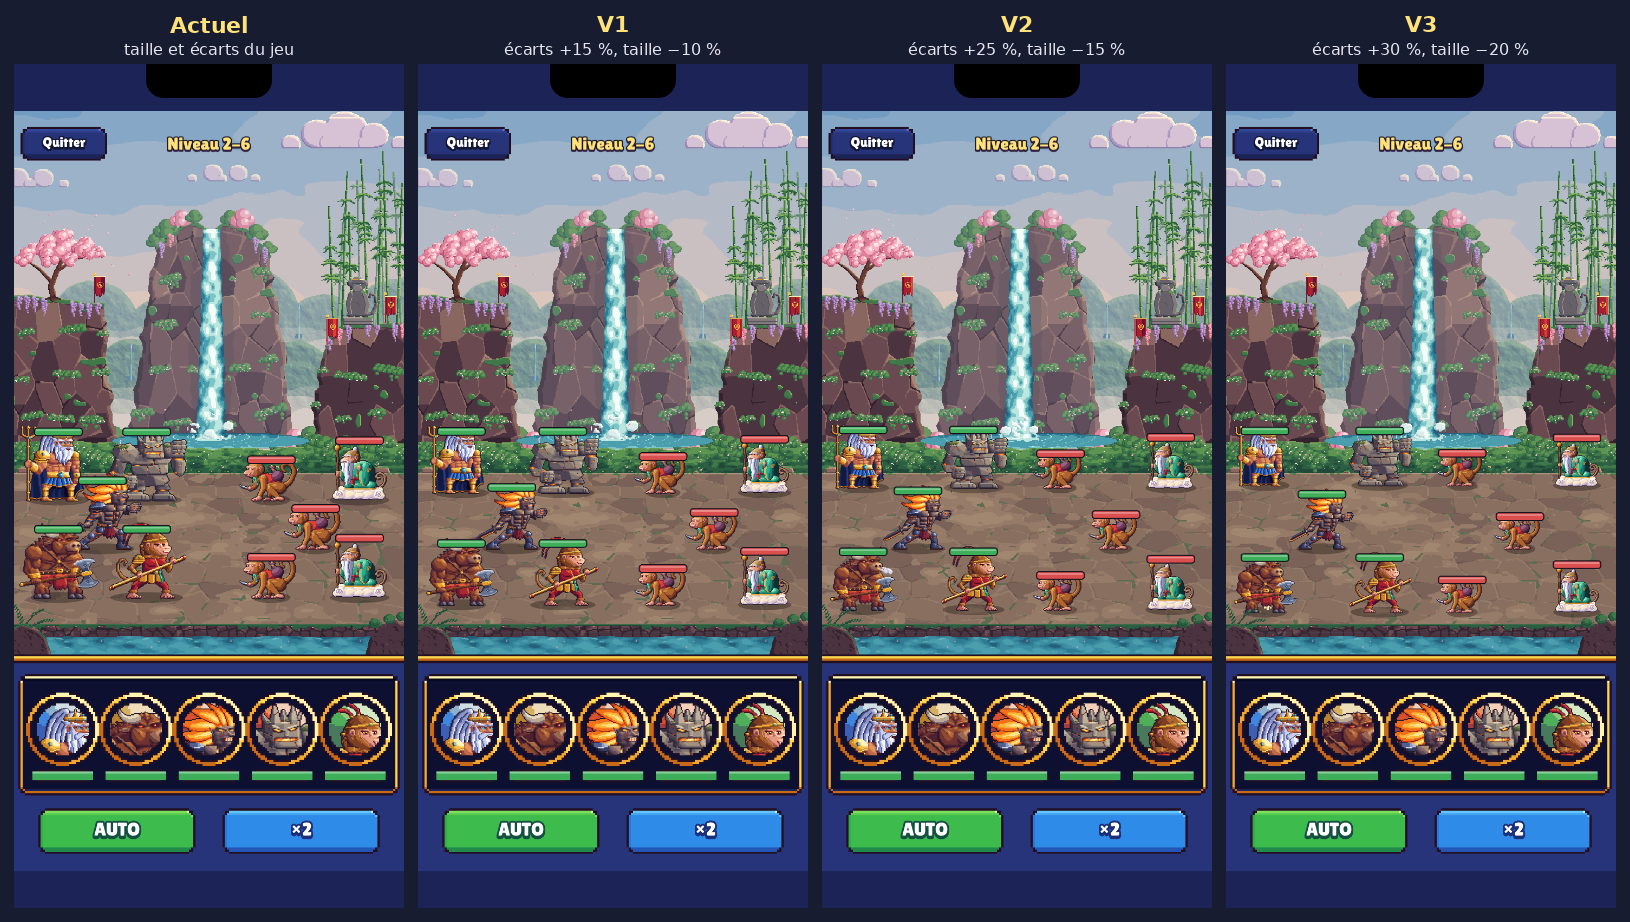
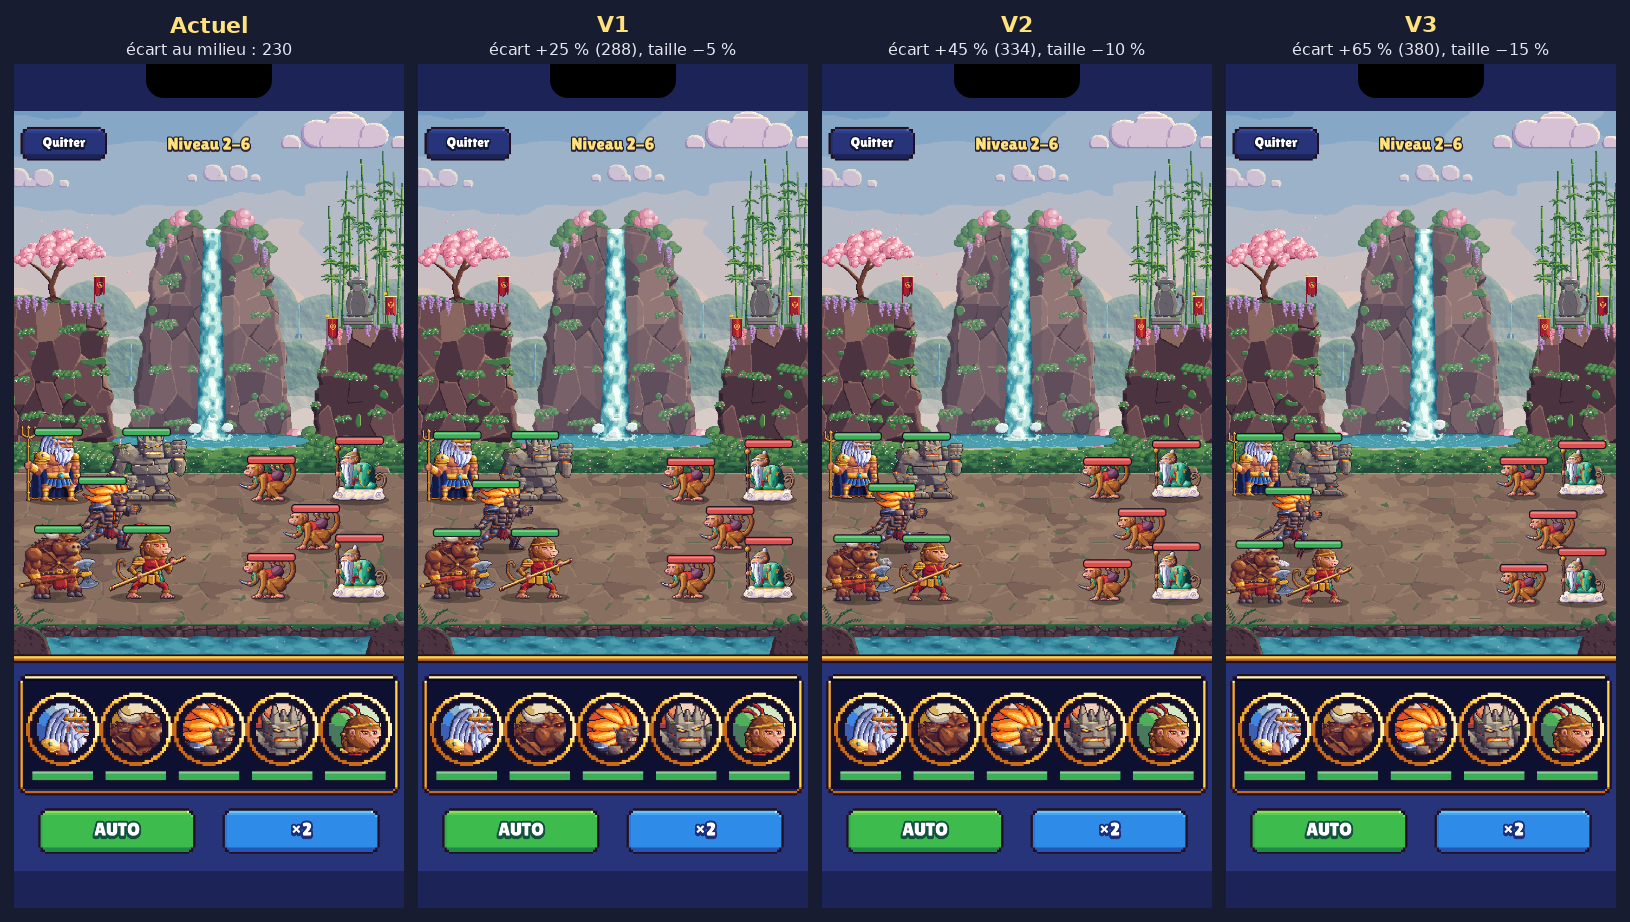
En cours : images de contrôle des attaques spéciales, essai d'écart, test des 44 héros
Claude-Session: https://claude.ai/code/session_01StTiAZjvnzYLiVPjaUWZHe

diff --git a/tests/heros-de-clan.test.ts b/tests/heros-de-clan.test.ts
@@ -1,0 +1,111 @@
+// Les 8 monstres de clan devenus héros (Nyrra, Sarvik, Jessa, Oboro, Sorai, Bao, Gribou, Karu) : ils existent, on peut
+// les invoquer, ils fusionnent avec leur élément, ils combattent, ils ont leurs dessins HD et restent des monstres de clan.
+import { describe, expect, it } from 'vitest';
+import { Battle } from '../src/core/battle/engine';
+import { heroToUnit } from '../src/core/battle/units';
+import type { Slot } from '../src/core/battle/types';
+import { HEROES, heroDef, heroesOfElement, isHero } from '../src/core/data/heroes';
+import { planFusion } from '../src/core/fusion';
+import { createRng } from '../src/core/rng';
+import { campaignWaves } from '../src/core/stages';
+import { summonOne } from '../src/core/summon';
+import type { Hero } from '../src/core/types';
+import { heroImage, figureUrl } from '../src/game/art';
+import { HD_FIG } from '../src/game/hd-figures';
+import { HD_ANIM } from '../src/game/hd-meta';
+import { t } from '../src/game/i18n';
+import { CLANS, HERO_ART, campaignLook, heroArt, monsterArtId } from '../src/game/look';
+import { getState } from '../src/game/state/store';
+
+const NEW: Record<string, [string, string]> = {
+  nyrra: ['Nyrra', 'earth'], sarvik: ['Sarvik', 'earth'], jessa: ['Jessa', 'water'], oboro: ['Oboro', 'fire'],
+  sorai: ['Sorai', 'wind'], bao: ['Bao', 'wind'], gribou: ['Gribou', 'wind'], karu: ['Karu', 'wind'],
+};
+const IDS = Object.keys(NEW);
+
+describe('monstres de clan devenus héros', () => {
+  it('les 8 existent, avec leur nom et leur élément ; 2 Légendaires, 3 Épiques, 3 Rares', () => {
+    expect(HEROES).toHaveLength(44);
+    for (const id of IDS) {
+      expect(isHero(id)).toBe(true);
+      expect(heroDef(id).name).toBe(NEW[id]![0]);
+      expect(heroDef(id).element).toBe(NEW[id]![1]);
+    }
+    const count = (r: string) => IDS.filter((id) => heroDef(id).rarity === r).length;
+    expect([count('legendary'), count('epic'), count('rare')]).toEqual([2, 3, 3]);
+    expect(heroDef('bao').role).toBe('healer');
+  });
+
+  it('leur dessin HD est celui de leur monstre de clan (combat, visage, respiration)', () => {
+    const anims = HD_ANIM.chars as Record<string, unknown>;
+    const figs = HD_FIG.chars as Record<string, unknown>;
+    expect(Object.keys(HERO_ART).sort()).toEqual([...IDS].sort());
+    for (const h of HEROES) {
+      expect(heroArt(h.id) in anims).toBe(true);
+      expect(heroArt(h.id) in figs).toBe(true);
+    }
+    expect(heroImage('nyrra')).toBe('art/hd/v/mon-arachne-tisseuse.webp');
+    expect(figureUrl(heroArt('karu'))).toBe('art/hd/pied/mon-orin-rapide.webp');
+    expect(heroArt('knights-8')).toBe('knights-8');
+    // ils jouent toujours les monstres de leur clan
+    const monsterArts = new Set<string>();
+    for (let c = 1; c <= 40; c++) {
+      const look = campaignLook(c);
+      for (const el of ['fire', 'water', 'wind', 'earth'] as const) for (const m of ['goblin', 'golem', 'archer']) monsterArts.add(monsterArtId(m, el, look));
+    }
+    for (const art of Object.values(HERO_ART)) {
+      expect(monsterArts.has(art)).toBe(true);
+      expect(CLANS.some((c) => art.startsWith(`mon-${c}-`))).toBe(true);
+    }
+  });
+
+  it('on peut les invoquer', () => {
+    const rng = createRng(7);
+    const state = { pity: 0 };
+    const seen = new Set<string>();
+    for (let i = 0; i < 20000 && IDS.some((id) => !seen.has(id)); i++) seen.add(summonOne(state, rng).id);
+    for (const id of IDS) expect(seen.has(id)).toBe(true);
+  });
+
+  it('ils fusionnent avec des héros de leur élément', () => {
+    let uid = 1;
+    const hero = (defId: string, stars: number): Hero => ({ uid: uid++, defId, stars, level: 1 });
+    const target = hero('karu', 3);
+    const wind = (r: 'common' | 'rare') => heroesOfElement('wind', r)[0]!.id;
+    const roster = [target, hero('karu', 3), hero(wind('common'), 3), hero(wind('rare'), 3), hero(heroesOfElement('fire', 'rare')[0]!.id, 3)];
+    const plan = planFusion(roster, target.uid);
+    expect(plan).not.toBeNull();
+    expect(plan!.consumed).not.toContain(roster[4]!.uid);
+    expect(heroesOfElement('wind', 'legendary').map((h) => h.id)).toContain('bao');
+  });
+
+  it('ils combattent ; la compétence de Bao frappe et soigne son équipe', () => {
+    const team = ['sarvik', 'karu', 'oboro', 'jessa', 'bao'];
+    const battle = new Battle({
+      heroes: team.map((defId, i) => heroToUnit({ uid: i + 1, defId, stars: 5, level: 40 }, i as Slot)),
+      waves: campaignWaves(120),
+      seed: 3,
+      auto: true,
+    });
+    let baoHealed = false, baoHit = false;
+    for (let n = 0; n < 20000 && !battle.over; n++) {
+      for (const e of battle.step()) {
+        if (e.type !== 'skill' || e.skill.id !== 'bao') continue;
+        baoHealed ||= e.hits.some((h) => h.kind === 'heal');
+        baoHit ||= e.hits.some((h) => h.kind === 'damage' || h.kind === 'miss');
+      }
+    }
+    expect(battle.over).toBe(true);
+    expect(baoHealed && baoHit).toBe(true);
+  });
+
+  it('leur compétence a un nom en français et en anglais', () => {
+    const lang = getState().lang;
+    for (const l of ['fr', 'en'] as const) {
+      getState().lang = l;
+      for (const id of IDS) expect(t(`skill.${heroDef(id).skill.id}`)).not.toBe(`skill.${heroDef(id).skill.id}`);
+    }
+    getState().lang = lang;
+    expect(t('skill.bao')).not.toBe('');
+  });
+});

diff --git a/tests/effets.test.ts b/tests/effets.test.ts
@@ -5,6 +5,7 @@ import { heroToUnit } from '../src/core/battle/units';
 import { ELEMENT_BONUS, type Effect, type UnitInit } from '../src/core/battle/types';
 import { HEROES, PASSIVE_STARS } from '../src/core/data/heroes';
 import { HD_ANIM } from '../src/game/hd-meta';
+import { heroArt } from '../src/game/look';
 
 function unit(id: string, side: 'hero' | 'enemy', slot: 0 | 1 | 2 | 3 | 4, effects: Effect[], extra: Partial<UnitInit> = {}): UnitInit {
   return {
@@ -74,16 +75,16 @@ describe('effets', () => {
     expect(elementBonus([h('fire'), h('water')])).toBeNull();
   });
 
-  it('36 héros : 9 par élément, chaque rôle présent, tous dessinés en HD', () => {
-    expect(HEROES).toHaveLength(36);
+  it('44 héros (36 + 8 monstres de clan) : au moins 9 par élément, chaque rôle présent, tous dessinés en HD', () => {
+    expect(HEROES).toHaveLength(44);
     for (const el of ['fire', 'water', 'wind', 'earth']) {
       const list = HEROES.filter((h) => h.element === el);
-      expect(list).toHaveLength(9);
+      expect(list.length).toBeGreaterThanOrEqual(9);
       for (const role of ['protector', 'warrior', 'marksman', 'assassin', 'healer', 'support']) expect(list.filter((h) => h.role === role).length).toBeGreaterThan(0);
       // la fusion des Épiques demande des héros du même élément : chaque élément en a de chaque rareté
       for (const r of ['common', 'rare', 'epic', 'legendary']) expect(list.filter((h) => h.rarity === r).length).toBeGreaterThan(0);
     }
-    expect(HEROES.filter((h) => h.talent)).toHaveLength(12);
-    expect(HEROES.every((h) => h.id in HD_ANIM.chars)).toBe(true);
+    expect(HEROES.filter((h) => h.talent)).toHaveLength(15);
+    expect(HEROES.every((h) => heroArt(h.id) in HD_ANIM.chars)).toBe(true);
   });
 });
